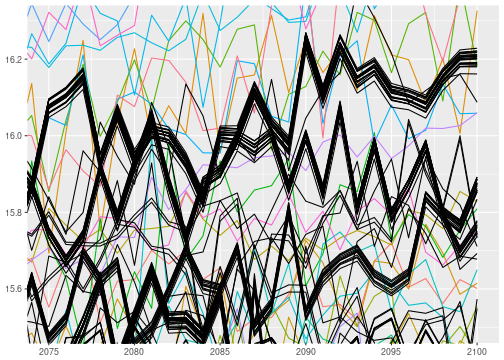
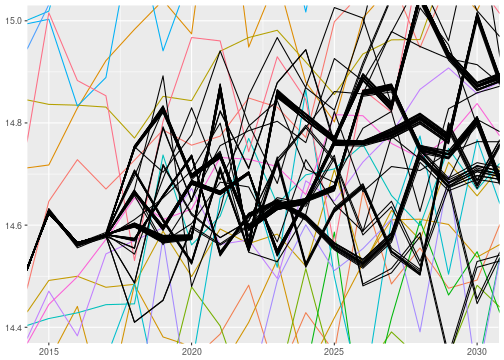
changed focus on sampler artifact plot

diff --git a/global-temperature.md b/global-temperature.md
@@ -348,11 +348,12 @@ Below I zoomed in on a region of the posterior predictive samples where the issu
 ggplot() +
   geom_line(data=gmst_mod_sim, aes(x=year, y=gmst, color=model), na.rm=TRUE) +
   geom_line(data=obs_sampls, aes(x=year, y=gmst, group=sample), color='black', na.rm=TRUE) +
-  coord_cartesian(xlim=c(2075, 2100), ylim=c(15.5, 16.3)) +
+  coord_cartesian(xlim=c(2015, 2030), ylim=c(14.4, 15.0)) +
   theme(legend.position = 'none') + labs(x=NULL, y=NULL)
 ```
 
 ![plot of chunk plot-inla-projection-bundles](figure/global-temperature/plot-inla-projection-bundles-1.png)
+
 
 I will ignore this issue for now, but it is certainly important and worthwhile looking into.
 It might be possible to solve this by setting some parameters to control the sampler.
